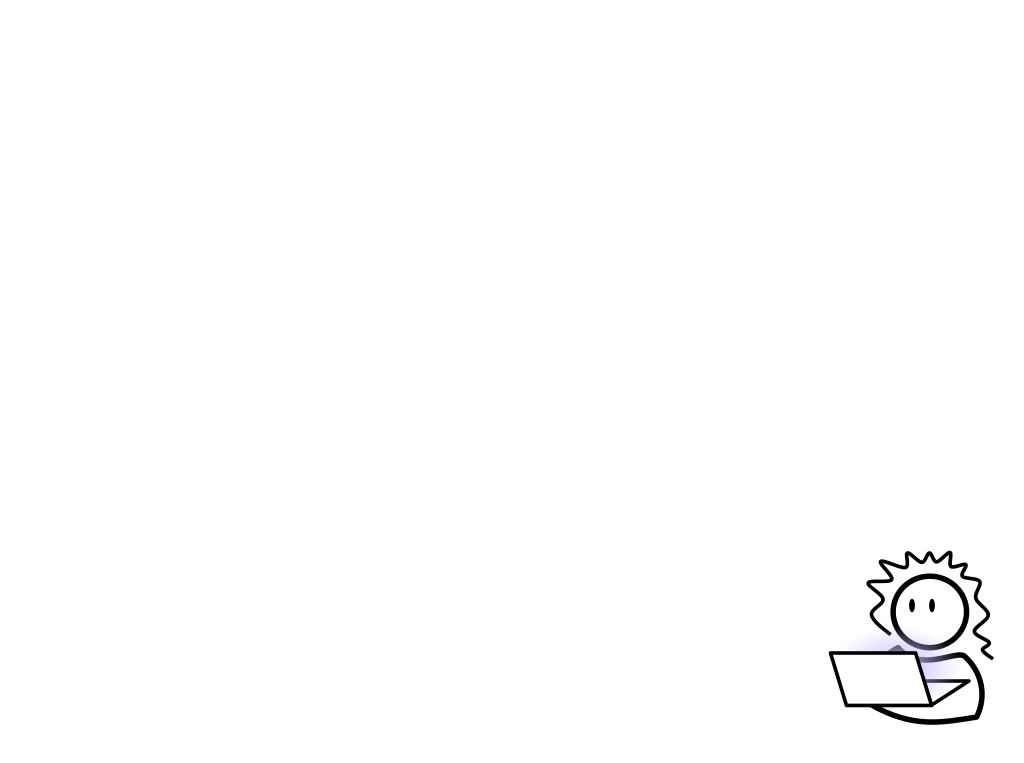
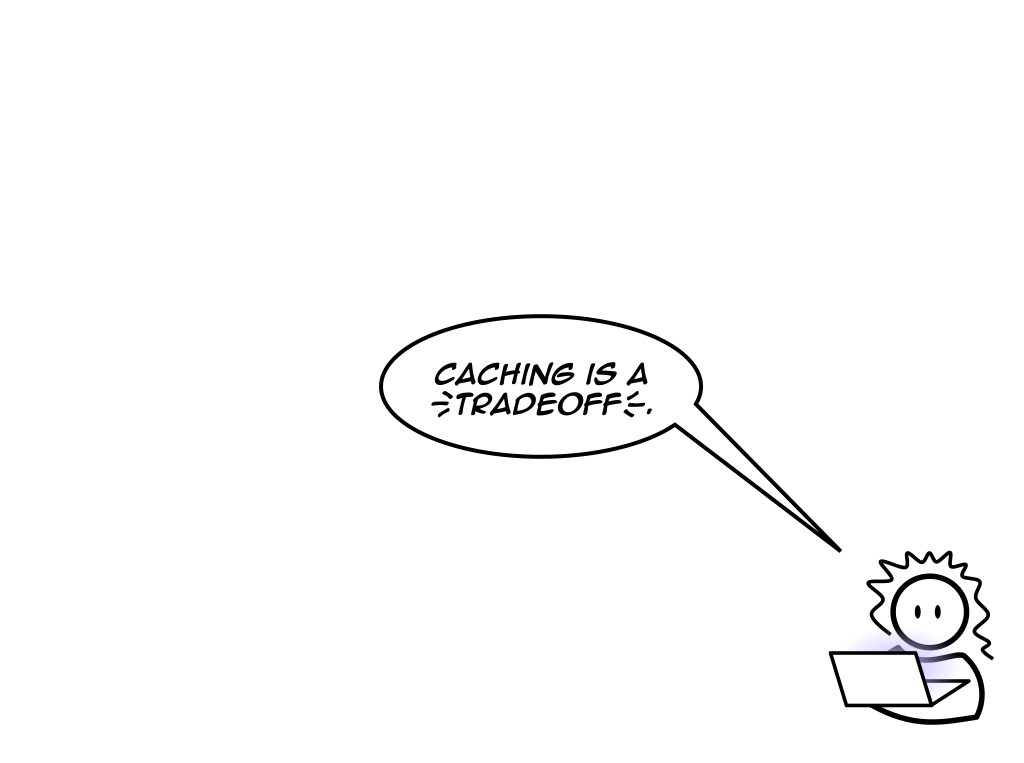
Moved around a few sections.

diff --git a/index.html b/index.html
@@ -146,9 +146,30 @@
 					</section>
 
 					<section>
+						<h2>Caching has layers</h2>
+						<p class="fragment">From a single variable...</p>
+						<p class="fragment">...to planet-sized infrastructure!</p>
+					</section>
+
+					<section data-transition="none" data-background-transition="none" data-background="img/onion1.png" data-background-size="contain">
+					</section>
+					<section data-transition="none" data-background-transition="none" data-background="img/onion2.png" data-background-size="contain">
+					</section>
+					<section data-transition="none" data-background-transition="none" data-background="img/onion3.png" data-background-size="contain">
+					</section>
+					<section data-transition="none" data-background-transition="none" data-background="img/onion4.png" data-background-size="contain">
+					</section>
+					<section data-transition="none" data-background-transition="none" data-background="img/onion5.png" data-background-size="contain">
+					</section>
+					<section data-transition="none" data-background-transition="none" data-background="img/onion6.png" data-background-size="contain">
+					</section>
+					<section data-transition="none" data-background-transition="none" data-background="img/onion7.png" data-background-size="contain">
+					</section>
+
+					<section>
 						<h2>Bypassing cache</h2>
+						<p class="fragment">Has to be done at <em>all</em> layers</p>
 						<p class="fragment">Opens a Denial of Service vector!</p>
-						<p class="fragment">Caching is a <ins>tradeoff</ins></p>
 					</section>
 
 					<section data-transition="none" data-background-transition="none" data-background="img/pickTwo1.png" data-background-size="contain">
@@ -161,6 +182,7 @@
 					</section>
 					<section data-transition="none" data-background-transition="none" data-background="img/pickTwo5.png" data-background-size="contain">
 					</section>
+
 
 					<section>
 						<h2>Not caching costs</h2>
@@ -231,6 +253,7 @@ function myFunction() {
 
 	if (empty($myVar)) {
 		// Generate the value here.
+		$myVar = rand();
 	}
 
 	return $myVar;
@@ -251,6 +274,7 @@ function myFunction(bool $reset = FALSE) {
 
 	if (empty($myVar) || $reset) {
 		// Generate the value here.
+		$myVar = rand();
 	}
 
 	return $myVar;
@@ -290,6 +314,7 @@ function myMethod() {
 
 	if (empty($cache)) {
 		// Generate the value here.
+		$cache = rand();
 	}
 
 	return $cache;
@@ -322,6 +347,7 @@ class MyClass {
 
 		if (empty($cache)) {
 			// Generate the value here.
+			$cache = rand();
 		}
 
 		return $cache;
@@ -359,6 +385,7 @@ class MyClass {
 
 		if (empty($cache[$param])) {
 			// Generate the value for $myParam here.
+			$myParam = rand();
 		}
 
 		return $cache[$param];
@@ -395,7 +422,7 @@ class MyClass {
 		$cache = &drupal_static(__METHOD__, []);
 
 		if (empty($cache[$nid])) {
-			// Generate the value for the node with ID $nid.
+			$cache[$nid] = $node->label();
 		}
 
 		return $cache[$nid];
@@ -423,7 +450,8 @@ class MyClass {
 		$cache = &drupal_static(__METHOD__, []);
 
 		if (empty($cache[$cid])) {
-			// Generate the value the unique $cid.
+			// Generate the value the for the unique $cid.
+			$cache[$cid] = $param1 . $node->label() . $param2;
 		}
 
 		return $cache[$cid];
@@ -440,91 +468,91 @@ class MyClass {
 					</section>
 				</section>
 
-				<section>
-					<section data-background="img/breakfast.jpg" data-background-size="cover" class="section-header">
-						<h1>Breakfast</h1>
-						<p class="fragment">Essential part of your site!</p>
-					</section>
+<!--				<section>-->
+<!--					<section data-background="img/breakfast.jpg" data-background-size="cover" class="section-header">-->
+<!--						<h1>Breakfast</h1>-->
+<!--						<p class="fragment">Essential part of your site!</p>-->
+<!--					</section>-->
 
-					<section>
-						<h2>Front-side caching</h2>
-						<p class="fragment">Caches generated HTML</p>
-						<p class="fragment">Infrastructure <em>outside</em> of Drupal!</p>
-					</section>
+<!--					<section>-->
+<!--						<h2>Front-side caching</h2>-->
+<!--						<p class="fragment">Caches generated HTML</p>-->
+<!--						<p class="fragment">Infrastructure <em>outside</em> of Drupal!</p>-->
+<!--					</section>-->
 
-					<section>
-						<h2>Varnish</h2>
-						<p class="fragment">Acts as a reverse proxy</p>
-						<p class="fragment">Free, Open Source</p>
-					</section>
+<!--					<section>-->
+<!--						<h2>Varnish</h2>-->
+<!--						<p class="fragment">Acts as a reverse proxy</p>-->
+<!--						<p class="fragment">Free, Open Source</p>-->
+<!--					</section>-->
 
-					<section>
-						<h2>Using Varnish</h2>
-						<p class="fragment">Requires VCL to configure</p>
-						<p class="fragment">Self-hosted, needs a VPS!</p>
-						<small class="fragment"><a href="https://www.varnish-software.com/developers/tutorials/configuring-varnish-drupal/">varnish-software.com/developers/tutorials/configuring-varnish-drupal</a></small>
-					</section>
+<!--					<section>-->
+<!--						<h2>Using Varnish</h2>-->
+<!--						<p class="fragment">Requires VCL to configure</p>-->
+<!--						<p class="fragment">Self-hosted, needs a VPS!</p>-->
+<!--						<small class="fragment"><a href="https://www.varnish-software.com/developers/tutorials/configuring-varnish-drupal/">varnish-software.com/developers/tutorials/configuring-varnish-drupal</a></small>-->
+<!--					</section>-->
 
-					<section data-transition="none" data-background-transition="none" data-background="img/lookingDownLaptop.png" data-background-size="contain">
-					</section>
-					<section data-transition="none" data-background-transition="none" data-background="img/looksComplicated1.png" data-background-size="contain">
-					</section>
-					<section data-transition="none" data-background-transition="none" data-background="img/looksComplicated2.png" data-background-size="contain">
-					</section>
+<!--					<section data-transition="none" data-background-transition="none" data-background="img/lookingDownLaptop.png" data-background-size="contain">-->
+<!--					</section>-->
+<!--					<section data-transition="none" data-background-transition="none" data-background="img/looksComplicated1.png" data-background-size="contain">-->
+<!--					</section>-->
+<!--					<section data-transition="none" data-background-transition="none" data-background="img/looksComplicated2.png" data-background-size="contain">-->
+<!--					</section>-->
 
-					<section>
-						<h2>CDNs</h2>
-						<p class="fragment">Same idea as Varnish...</p>
-						<p class="fragment">...but as a geo-aware service!</p>
-					</section>
+<!--					<section>-->
+<!--						<h2>CDNs</h2>-->
+<!--						<p class="fragment">Same idea as Varnish...</p>-->
+<!--						<p class="fragment">...but as a geo-aware service!</p>-->
+<!--					</section>-->
 
-					<section>
-						<h2>Value-adds</h2>
-						<p class="fragment">DDoS, Bot protection</p>
-						<p class="fragment">Can save on hosting costs</p>
-					</section>
+<!--					<section>-->
+<!--						<h2>Value-adds</h2>-->
+<!--						<p class="fragment">DDoS, Bot protection</p>-->
+<!--						<p class="fragment">Can save on hosting costs</p>-->
+<!--					</section>-->
 
-					<section>
-						<h2>CDN providers</h2>
-						<p class="fragment">Bunny.net, Fastly, KeyCDN, others</p>
-						<p class="fragment">Typically take over as your site's DNS</p>
-					</section>
+<!--					<section>-->
+<!--						<h2>CDN providers</h2>-->
+<!--						<p class="fragment">Bunny.net, Fastly, KeyCDN, others</p>-->
+<!--						<p class="fragment">Typically take over as your site's DNS</p>-->
+<!--					</section>-->
 
-					<section data-transition="none" data-background-transition="none" data-background="img/lookingUpLaptop.png" data-background-size="contain">
-						<h2>Purge module</h2>
-						<p class="fragment">Not necessary, but helps!</p>
-						<p class="fragment">Push fine-grained invalidations to CDN</p>
-						<small class="fragment"><a href="https://www.drupal.org/project/purge">drupal.org/project/purge</a></small>
-					</section>
-					<section data-transition="none" data-background-transition="none" data-background="img/purgeModule1.png" data-background-size="contain">
-						<h2>Purge module</h2>
-						<p class="">Not necessary, but helps!</p>
-						<p class="">Push fine-grained invalidations to CDN</p>
-						<small class=""><a href="https://www.drupal.org/project/purge">drupal.org/project/purge</a></small>
-					</section>
-				</section>
+<!--					<section data-transition="none" data-background-transition="none" data-background="img/lookingUpLaptop.png" data-background-size="contain">-->
+<!--						<h2>Purge module</h2>-->
+<!--						<p class="fragment">Not necessary, but helps!</p>-->
+<!--						<p class="fragment">Push fine-grained invalidations to CDN</p>-->
+<!--						<small class="fragment"><a href="https://www.drupal.org/project/purge">drupal.org/project/purge</a></small>-->
+<!--					</section>-->
+<!--					<section data-transition="none" data-background-transition="none" data-background="img/purgeModule1.png" data-background-size="contain">-->
+<!--						<h2>Purge module</h2>-->
+<!--						<p class="">Not necessary, but helps!</p>-->
+<!--						<p class="">Push fine-grained invalidations to CDN</p>-->
+<!--						<small class=""><a href="https://www.drupal.org/project/purge">drupal.org/project/purge</a></small>-->
+<!--					</section>-->
+<!--				</section>-->
 
 				<section>
 					<section data-background="img/secondBreakfast.jpg" data-background-size="cover" class="section-header">
-						<h1>Second Breakfast</h1>
-						<p class="fragment">Beyond the request</p>
+						<h1>Breakfast</h1>
+						<p class="fragment">Persistent Caching</p>
 					</section>
 
 <!--					<section data-background="img/brunch.png" data-background-size="contain">-->
 <!--					</section>-->
 
 					<section data-transition="none" data-background-transition="none" data-background="img/whatAboutRedis1.png" data-background-size="contain">
-						<h2>Persistent caching</h2>
+						<h2>Essential part of your site!</h2>
 						<p class="fragment">Cache values to <em>persistent store</em></p>
 						<p class="fragment">Typically, to the database</p>
 					</section>
 					<section data-transition="none" data-background-transition="none" data-background="img/whatAboutRedis2.png" data-background-size="contain">
-						<h2>Persistent caching</h2>
+						<h2>Essential part of your site!</h2>
 						<p class="">Cache values to <em>persistent store</em></p>
 						<p class="">Typically, to the database</p>
 					</section>
 					<section data-transition="none" data-background-transition="none" data-background="img/whatAboutRedis3.png" data-background-size="contain">
-						<h2>Persistent caching</h2>
+						<h2>Essential part of your site!</h2>
 						<p class="">Cache values to <em>persistent store</em></p>
 						<p class="">Typically, to the database</p>
 					</section>
@@ -540,7 +568,7 @@ class MyClass {
 
 					<section>
 						<h2>Cache API</h2>
-						<p class="fragment"><code>Drupal::cache()</code></p>
+						<p class="fragment"><code>\Drupal::cache()</code></p>
 					</section>
 
 					<section>
@@ -675,6 +703,7 @@ $my_module_cache = \Drupal::service('cache.my_module');
 		$this->cache->get('my:cache:key');
 	}
 }</code></pre>
+						<small class="fragment">(Scroll down.)</small>
 					</section>
 
 					<section data-transition="none" data-background-transition="none" data-background="img/soAllIHaveToDo1.png" data-background-size="contain">
@@ -1018,21 +1047,6 @@ $invalidator->invalidateTags($node_cache_tags);</code></pre>
 					<section data-background="img/chopping.jpg" data-background-size="cover" class="section-header">
 						<h1>Chopping</h1>
 						<p class="fragment">Render caching</p>
-					</section>
-
-					<section data-transition="none" data-background-transition="none" data-background="img/onion1.png" data-background-size="contain">
-					</section>
-					<section data-transition="none" data-background-transition="none" data-background="img/onion2.png" data-background-size="contain">
-					</section>
-					<section data-transition="none" data-background-transition="none" data-background="img/onion3.png" data-background-size="contain">
-					</section>
-					<section data-transition="none" data-background-transition="none" data-background="img/onion4.png" data-background-size="contain">
-					</section>
-					<section data-transition="none" data-background-transition="none" data-background="img/onion5.png" data-background-size="contain">
-					</section>
-					<section data-transition="none" data-background-transition="none" data-background="img/onion6.png" data-background-size="contain">
-					</section>
-					<section data-transition="none" data-background-transition="none" data-background="img/onion7.png" data-background-size="contain">
 					</section>
 
 					<section>
